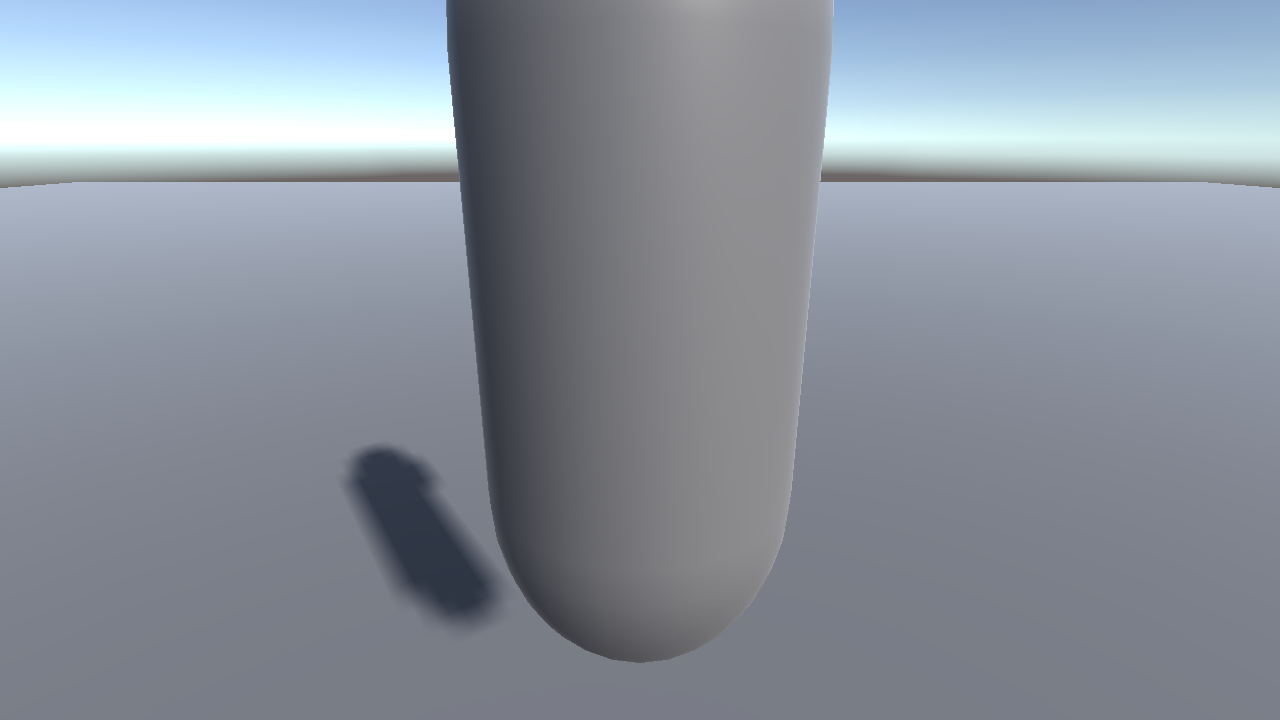
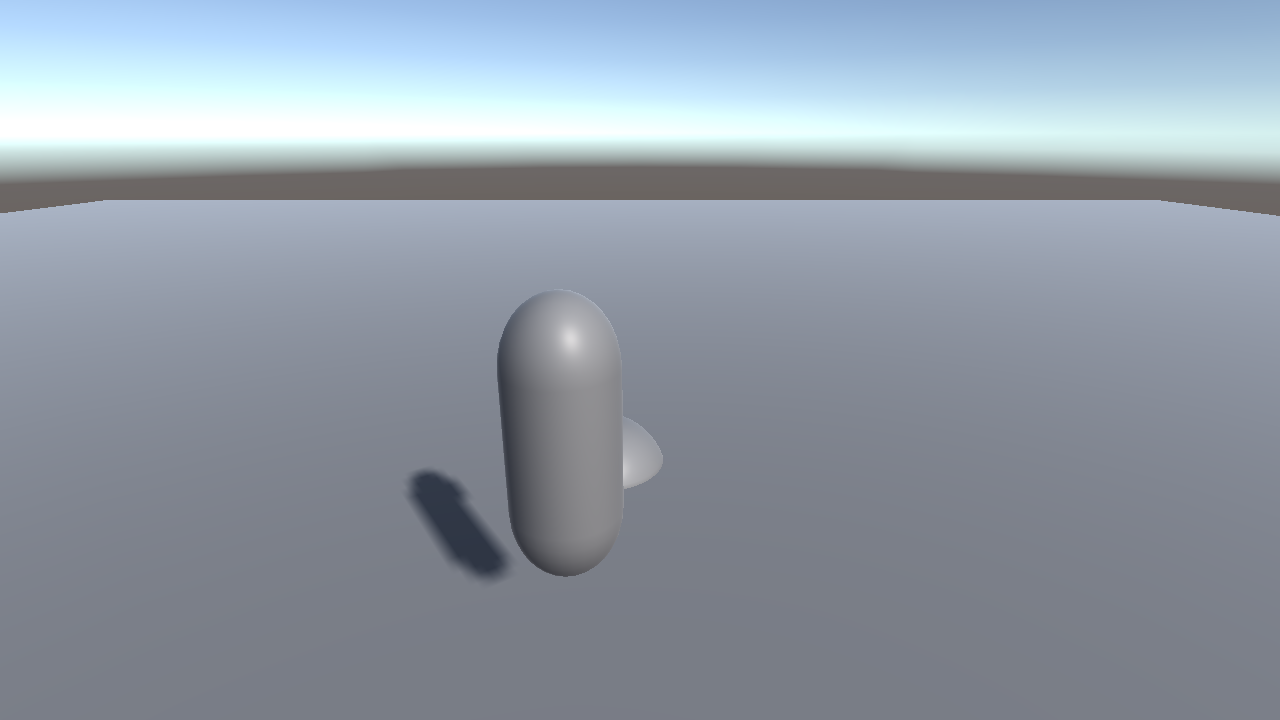
Player on Ignore Raycast layer; headless screenshot snaps orbit camera

Changed region(s): [[0.0, 0.0, 1.0, 0.9167], [0.5938, 0.6111, 0.625, 0.7333]]

diff --git a/Assets/Snowfield/Editor/SandboxActors.cs b/Assets/Snowfield/Editor/SandboxActors.cs
@@ -41,6 +41,10 @@ namespace Snowfield.Editor
                 var ch = player.AddComponent<SnowCharacter>();
                 ch.cameraRig = cam.transform;
             }
+            // The brush ray starts behind the player; keep the player out of every raycast.
+            int ignore = LayerMask.NameToLayer("Ignore Raycast");
+            player.layer = ignore;
+            foreach (Transform t in player.GetComponentsInChildren<Transform>(true)) t.gameObject.layer = ignore;
 
             var orbit = cam.GetComponent<OrbitCamera>();
             if (orbit == null) orbit = cam.gameObject.AddComponent<OrbitCamera>();

diff --git a/Assets/Snowfield/Player/OrbitCamera.cs b/Assets/Snowfield/Player/OrbitCamera.cs
@@ -57,6 +57,13 @@ namespace Snowfield.Player
                 distance = Mathf.Clamp(distance, minDistance, maxDistance);
             }
 
+            Snap();
+        }
+
+        /// <summary>Place the camera for the current yaw/pitch/distance without reading input. Safe in edit mode.</summary>
+        public void Snap()
+        {
+            if (target == null) return;
             var rot = Quaternion.Euler(_pitch, _yaw, 0f);
             Vector3 pivot = target.position + targetOffset;
             Vector3 desired = pivot + rot * new Vector3(shoulder, 0f, -distance);

diff --git a/Assets/Snowfield/Editor/HeadlessScreenshot.cs b/Assets/Snowfield/Editor/HeadlessScreenshot.cs
@@ -32,6 +32,8 @@ namespace Snowfield.Editor
             }
 
             var cam = Camera.main;
+            var orbit = cam.GetComponent<Snowfield.Player.OrbitCamera>();
+            if (orbit != null) orbit.Snap(); // LateUpdate does not run in edit mode
             var rt = new RenderTexture(1280, 720, 24, RenderTextureFormat.ARGB32);
             cam.targetTexture = rt;
             cam.Render();

diff --git a/CLAUDE.md b/CLAUDE.md
@@ -86,7 +86,7 @@ Unity: `C:\Program Files\Unity\Hub\Editor\6000.3.19f1\Editor\Unity.exe`. All com
 - Render the scene to PNG (needs graphics, so no `-nographics`): `-executeMethod Snowfield.Editor.HeadlessScreenshot.Run -screenshotOut Screenshots/x.png`
 - Tests: `-runTests -testPlatform EditMode|PlayMode -testResults out.xml` (PlayMode needs graphics)
 
-Gotchas learned: `SerializedProperty.objectReferenceValue` silently drops refs to custom ScriptableObjects in batchmode — assign fields directly (`SnowSculpture.EditorAssign`). Shadows don't show in the edit-mode screenshot path; judge lighting in play mode.
+Gotchas learned: `SerializedProperty.objectReferenceValue` silently drops refs to custom ScriptableObjects in batchmode — assign fields directly (`SnowSculpture.EditorAssign`). Edit-mode screenshots render shadows but not play-mode-only behaviour (orbit camera, brush); `HeadlessScreenshot` snaps the orbit camera manually.
 
 ## Controls (Sandbox)
 
